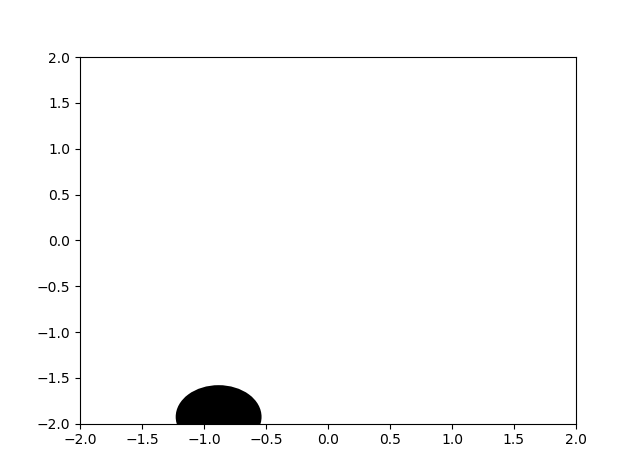
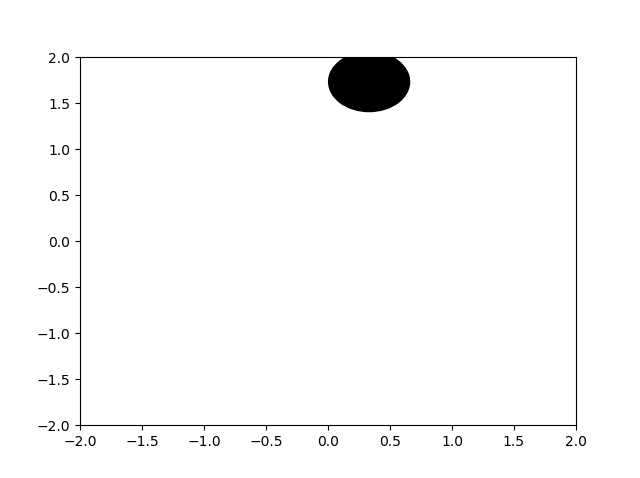
aSA

diff --git a/ArmNavigation/arm_obstacle_navigation/arm_obstacle_navigation_2.py b/ArmNavigation/arm_obstacle_navigation/arm_obstacle_navigation_2.py
@@ -44,7 +44,10 @@ def main(number,obs):
     random2 =random.uniform(-2, 2)
     random3 = random.uniform(.4,.7)
     obstacles1.append([random1, random2,random3])
-    arm.plot_arm(plt, obs)
+    theta1 = 2 * pi * node[0] / M - pi
+    theta2 = 2 * pi * node[1] / M - pi
+    M = 100
+    arm.plot_arm(plt, obs, number, [theta1, theta2])
     plt.clf()
     # (x, y) co-ordinates in the joint space [cell]
     startx = int(random.random()*99)
@@ -108,7 +111,7 @@ def main(number,obs):
 #previous 2 lines commented out to fix goalgrid and startgrid
 
 
-def animate(grid, arm, route):
+def animate(grid, arm, route, number):
     fig, axs = plt.subplots(1, 2)
     fig.canvas.mpl_connect('key_press_event', press)
     colors = ['white', 'black', 'red', 'pink', 'yellow', 'green', 'orange']
@@ -130,8 +133,8 @@ def animate(grid, arm, route):
         # Uncomment here to save the sequence of frames
         # plt.savefig('frame{:04d}.png'.format(i))
         plt.pause(0.1)
-def animate2(obst):
 
+def animate2(obst):
     fig, axs = plt.subplots(1, 2)
     fig.canvas.mpl_connect('key_press_event', press)
     colors = ['white', 'black', 'red', 'pink', 'yellow', 'green', 'orange']
@@ -363,12 +366,14 @@ class NLinkArm(object):
 
         self.end_effector = np.array(self.points[self.n_links]).T
 
-    def plot_arm(self, myplt, obstacles):  # pragma: no cover
+    def plot_arm(self, myplt, obstacles, number, joint_angles):  # pragma: no cover
         myplt.cla()
+        self.update_joints(joint_angles)
         for i in range(self.n_links + 1):
             #if i is not self.n_links:
                 #myplt.plot([self.points[i][0], self.points[i + 1][0]],
                         #  [self.points[i][1], self.points[i + 1][1]], 'r-')
+
             myplt.plot(self.points[i][0], self.points[i][1], 'k.')
         print("test")
         myplt.xlim([-self.lim, self.lim])
